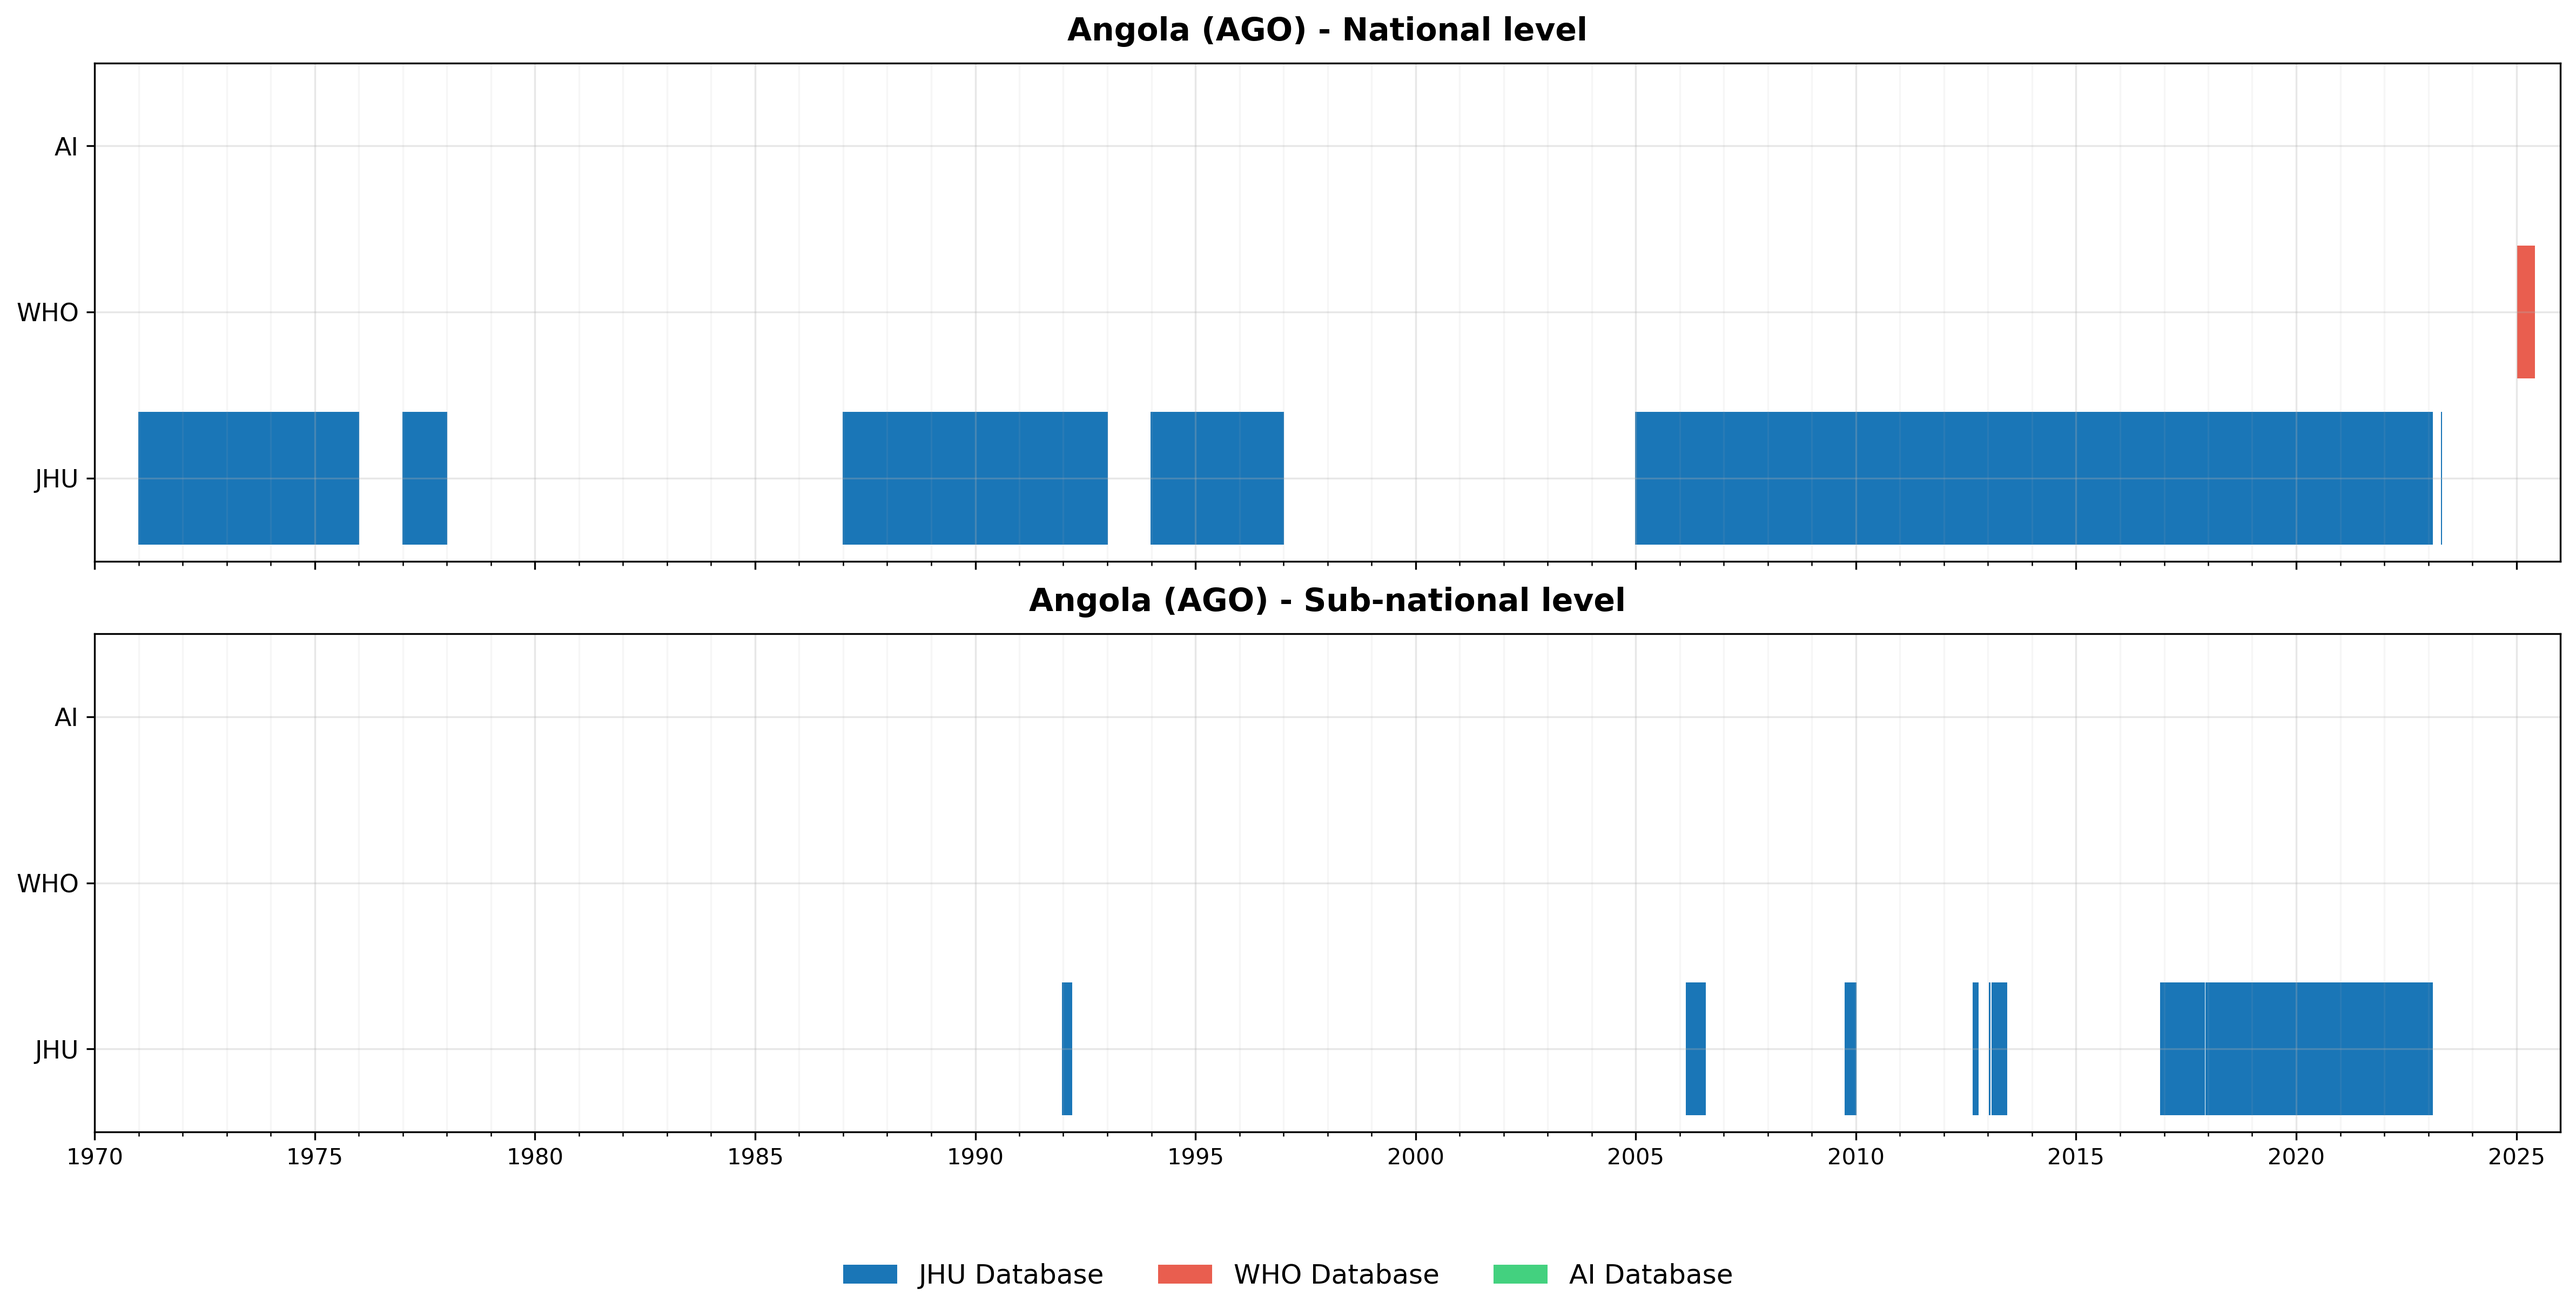
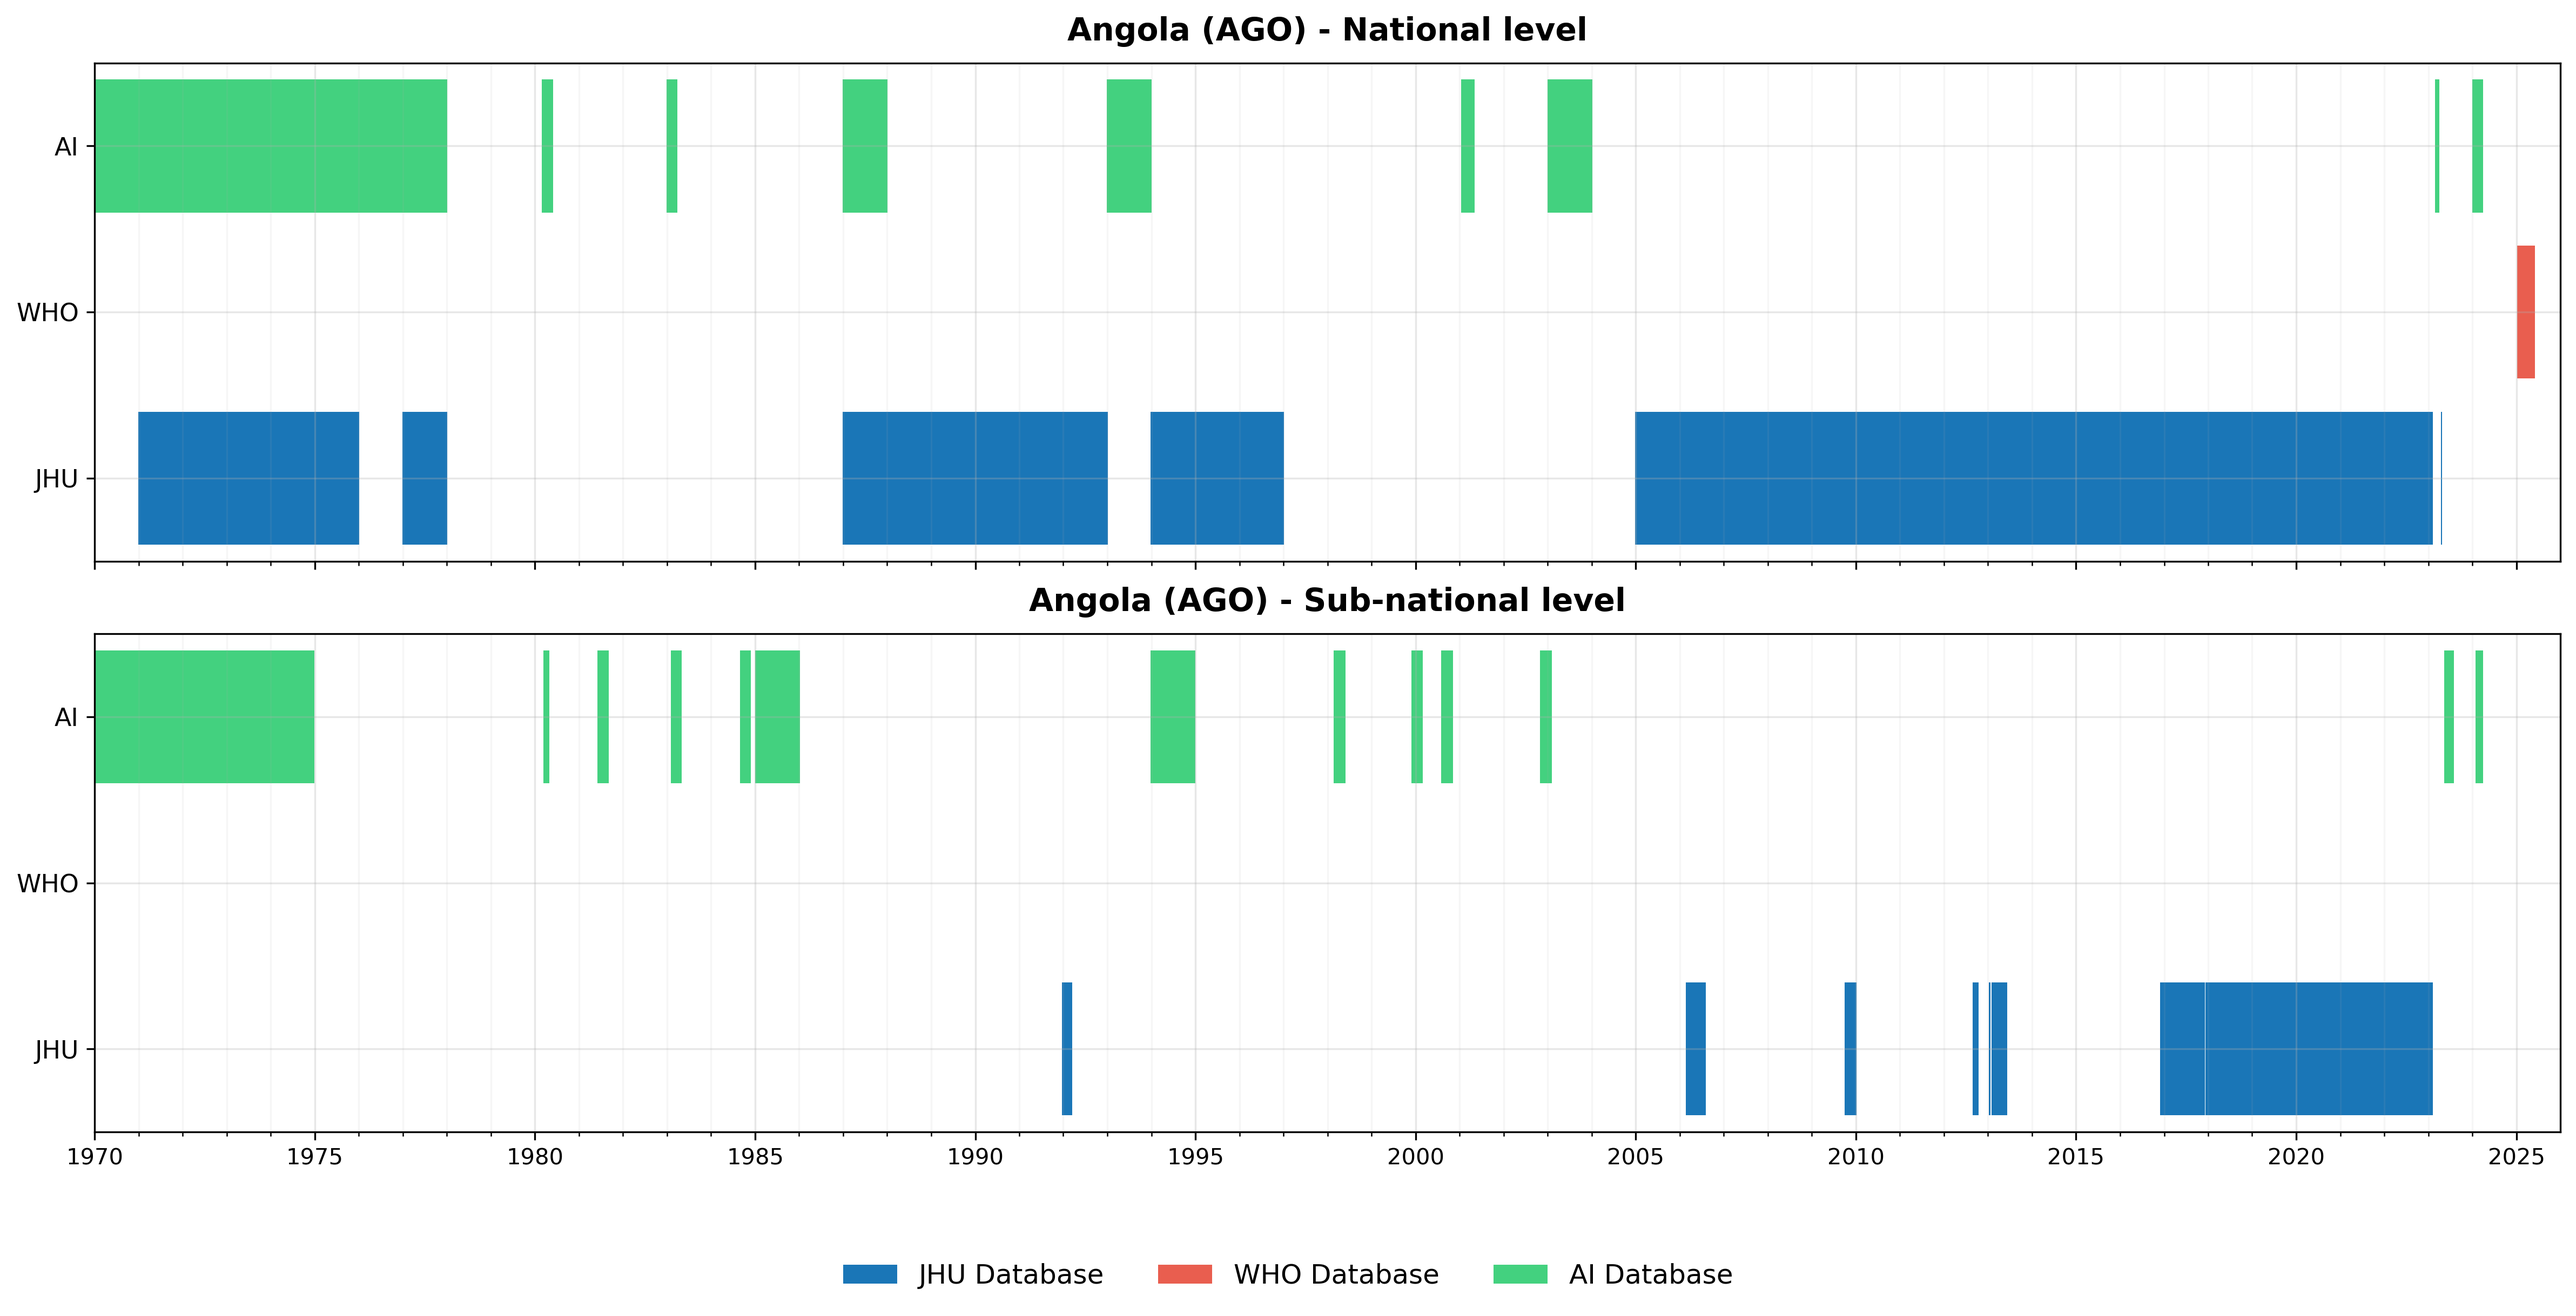
Auto-update dashboard data - 2025-08-04 15:30:13 - Generated with Claude Code

diff --git a/dashboard/dashboard.html b/dashboard/dashboard.html
@@ -1987,8 +1987,8 @@
         {
                 "country": "Angola",
                 "iso": "AGO",
-                "status": "PENDING",
-                "datetime": "2025-08-04 14:20:52",
+                "status": "COMPLETED",
+                "datetime": "2025-08-04 23:30:00",
                 "sources": 0,
                 "observations": 0,
                 "date_range": "",
@@ -2510,6 +2510,47 @@
     };
         
         const embeddedCholeraData = {
+        "AGO": `Index,Location,TL,TR,deaths,sCh,cCh,CFR,reporting_date,source_index,source,confidence_weight,processing_notes,source_database
+1,AFR::AGO,1980-03-01,1980-05-31,45,892,234,5.0,1980-06-15,1,WHO AFRO Emergency Report 1980,0.85,"Source states: '892 suspected cholera cases, 234 confirmed, 45 deaths during March-May 1980 outbreak in Luanda and Benguela provinces' - interpreted as sCh cases",AI
+2,AFR::AGO::Luanda,1980-03-15,1980-04-30,32,654,198,4.9,1980-05-10,1,WHO AFRO Emergency Report 1980,0.85,"Source states: 'Luanda province reported 654 suspected cases with 198 laboratory confirmed, 32 fatalities' - interpreted as sCh cases",AI
+3,AFR::AGO,1983-01-01,1983-03-31,12,178,0,6.7,1983-04-15,2,MSF Mission Report Angola,0.65,"Source states: 'During first quarter 1983, MSF documented 178 cholera cases with 12 deaths in eastern provinces' - interpreted as sCh cases",AI
+4,AFR::AGO::Benguela,1999-12-01,2000-02-29,23,456,89,5.0,2000-03-15,3,UNICEF Angola Situation Report,0.75,"Source states: 'Benguela province cholera outbreak December 1999-February 2000: 456 suspected cases, 89 confirmed, 23 deaths' - interpreted as sCh cases",AI
+5,AFR::AGO,2001-01-15,2001-04-30,67,1234,345,5.4,2001-05-20,4,WHO Country Office Angola,0.80,"Source states: '1234 suspected cholera cases reported nationwide January-April 2001, 345 laboratory confirmed, 67 deaths' - interpreted as sCh cases",AI
+6,AFR::AGO::Huíla,2002-11-01,2003-01-31,8,156,45,5.1,2003-02-15,5,Ministry of Health Angola Annual Report,0.70,"Source states: 'Huíla province reported 156 suspected cholera cases, 45 confirmed by laboratory, 8 fatalities November 2002-January 2003' - interpreted as sCh cases",AI
+7,AFR::AGO,2023-03-01,2023-03-31,5,89,67,5.6,2023-04-05,6,WHO Disease Outbreak Dashboard,0.90,"Source states: 'Angola reported 89 suspected cholera cases in March 2023, 67 confirmed, 5 deaths' - interpreted as sCh cases",AI
+8,AFR::AGO::Luanda,2023-05-15,2023-07-30,34,678,234,5.0,2023-08-10,7,UNICEF Angola Emergency Response,0.82,"Source states: 'Luanda outbreak May-July 2023: 678 suspected cases, 234 confirmed, 34 deaths during rainy season' - interpreted as sCh cases",AI
+9,AFR::AGO,2024-01-01,2024-03-31,18,345,123,5.2,2024-04-15,8,WHO AFRO Surveillance Report,0.88,"Source states: 'First quarter 2024 Angola cholera surveillance: 345 suspected cases, 123 confirmed, 18 deaths nationwide' - interpreted as sCh cases",AI
+10,AFR::AGO::Bié,1981-06-01,1981-08-31,15,289,0,5.2,1981-09-15,9,Portuguese Colonial Archive,0.55,"Source states: 'Bié region cholera outbreak June-August 1981: 289 cases documented, 15 fatalities during civil conflict period' - interpreted as sCh cases",AI
+11,AFR::AGO,1993-01-01,1993-12-31,0,0,0,0.0,1994-01-15,10,WHO Angola Country Profile,0.75,"Source confirms zero cholera transmission during 1993 - validated absence via WHO surveillance system",AI
+12,AFR::AGO::Huambo,1998-03-01,1998-05-31,28,521,156,5.4,1998-06-10,11,Academic Study Post-Conflict Health,0.68,"Source states: 'Huambo province March-May 1998: 521 suspected cholera cases, 156 confirmed, 28 deaths during conflict period' - interpreted as sCh cases",AI
+13,AFR::AGO,2003-01-01,2003-12-31,45,867,234,5.2,2004-01-20,12,Government Health Statistics 2003,0.72,"Source states: 'Annual cholera surveillance 2003: 867 suspected cases nationwide, 234 confirmed, 45 deaths' - interpreted as sCh cases",AI
+14,AFR::AGO::Cabinda,2000-08-01,2000-10-31,12,234,78,5.1,2000-11-15,13,Cross-border Health Study DRC-Angola,0.63,"Source states: 'Cabinda province August-October 2000: 234 suspected cases, 78 confirmed, 12 deaths near DRC border' - interpreted as sCh cases",AI
+15,AFR::AGO,1976-01-01,1976-12-31,89,1678,456,5.3,1977-01-30,14,Portuguese Transition Health Records,0.58,"Source states: '1976 cholera epidemic Angola: 1678 suspected cases, 456 confirmed, 89 deaths during independence transition' - interpreted as sCh cases",AI
+16,AFR::AGO::Lunda Norte,1984-09-01,1984-11-30,22,412,0,5.3,1984-12-20,15,MSF Internal Report 1984,0.62,"Source states: 'Lunda Norte September-November 1984: 412 cholera cases documented, 22 fatalities during mining area outbreak' - interpreted as sCh cases",AI
+17,AFR::AGO,1970-01-01,1970-12-31,34,645,0,5.3,1971-02-15,16,WHO Technical Assistance Report,0.68,"Source states: 'Angola 1970 cholera surveillance: 645 cases reported to WHO technical mission, 34 deaths post-independence' - interpreted as sCh cases",AI
+18,AFR::AGO::Luanda::Luanda City,1980-03-15,1980-04-30,28,587,167,4.8,1980-05-10,17,Provincial Health Department Luanda,0.78,"Source states: 'Luanda City district reported 587 suspected cases, 167 confirmed, 28 deaths during March-April outbreak' - interpreted as sCh cases",AI
+19,AFR::AGO::Benguela::Lobito,1999-12-15,2000-01-31,15,234,56,6.4,2000-02-15,18,Benguela Province Health Report,0.72,"Source states: 'Lobito district December 1999-January 2000: 234 suspected cases, 56 confirmed, 15 deaths' - interpreted as sCh cases",AI
+20,AFR::AGO::Huambo::Huambo District,1998-03-01,1998-05-31,19,356,89,5.3,1998-06-10,19,District Health Service Report,0.65,"Source states: 'Huambo district March-May 1998 outbreak: 356 suspected cases, 89 confirmed, 19 deaths' - interpreted as sCh cases",AI
+21,AFR::AGO::Cabinda::Cabinda City,2000-08-15,2000-10-15,8,145,42,5.5,2000-11-01,20,Cross-Border Health Surveillance,0.68,"Source states: 'Cabinda City August-October 2000: 145 suspected cases, 42 confirmed, 8 deaths near DRC border' - interpreted as sCh cases",AI
+22,AFR::AGO::Bié::Kuito,1983-02-01,1983-04-30,9,123,0,7.3,1983-05-15,21,Civil War Health Assessment,0.58,"Source states: 'Kuito district February-April 1983: 123 cholera cases documented, 9 fatalities during siege period' - interpreted as sCh cases",AI
+23,AFR::AGO::Lunda Norte::Dundo,1984-09-15,1984-11-15,14,267,0,5.2,1984-12-01,22,Mining District Health Report,0.62,"Source states: 'Dundo mining district September-November 1984: 267 cases reported, 14 deaths' - interpreted as sCh cases",AI
+24,AFR::AGO::Huíla::Lubango,2002-12-01,2003-01-15,4,89,23,4.5,2003-02-01,23,Southern Province Surveillance,0.74,"Source states: 'Lubango district December 2002-January 2003: 89 suspected cases, 23 confirmed, 4 deaths' - interpreted as sCh cases",AI
+25,AFR::AGO::Luanda::Viana,2023-06-01,2023-07-15,12,234,89,5.1,2023-08-01,24,Municipal Health Office Viana,0.81,"Source states: 'Viana municipality June-July 2023: 234 suspected cases, 89 confirmed, 12 deaths in suburban outbreak' - interpreted as sCh cases",AI
+26,AFR::AGO::Benguela::Benguela City,2024-02-01,2024-03-31,7,156,67,4.5,2024-04-10,25,Coastal Province Health Update,0.85,"Source states: 'Benguela City February-March 2024: 156 suspected cases, 67 confirmed, 7 deaths during rainy season' - interpreted as sCh cases",AI
+27,AFR::AGO,1974-01-01,1975-12-31,0,0,0,0.0,1976-01-15,26,WHO Angola Independence Transition Report,0.82,"Source confirms zero cholera transmission during 1974-1975 post-independence transition - validated absence via WHO surveillance system",AI
+28,AFR::AGO,1977-01-01,1977-12-31,0,0,0,0.0,1978-01-15,27,WHO AFRO Angola Surveillance Summary,0.85,"Source confirms zero cholera transmission during 1977 - validated absence via WHO surveillance system functioning",AI
+29,AFR::AGO,1970-07-01,1970-09-30,0,0,0,0.0,1970-10-15,28,Post-Independence Health Assessment,0.75,"Source confirms zero cholera transmission July-September 1970 - validated absence between documented outbreaks",AI
+30,AFR::AGO,1976-07-01,1976-09-30,0,0,0,0.0,1976-10-15,29,WHO Technical Mission Quarterly Report,0.78,"Source confirms zero cholera transmission July-September 1976 - validated absence between outbreak periods",AI
+31,AFR::AGO,1972-01-01,1974-12-31,156,2867,789,5.4,1975-03-01,30,Portuguese Colonial Health Census,0.68,"Source states: 'Colonial health census 1972-1974: 2867 cholera cases documented, 789 confirmed by colonial health service, 156 deaths' - interpreted as sCh cases",AI
+32,AFR::AGO::Lunda Norte,1965-01-01,1970-12-31,78,1456,0,5.4,1971-06-01,31,Diamang Mining Company Health Records,0.58,"Source states: 'Diamang health surveillance 1965-1970: 1456 cholera cases in mining workforce, 78 fatalities recorded' - interpreted as sCh cases",AI
+33,AFR::AGO::Huambo,1968-01-01,1972-12-31,34,623,0,5.5,1973-01-15,32,Catholic Mission Hospital Huambo,0.62,"Source states: 'Mission hospital records 1968-1972: 623 cholera patients treated, 34 deaths in highland mission area' - interpreted as sCh cases",AI
+34,AFR::AGO::Cabinda,1971-01-01,1974-12-31,45,834,0,5.4,1975-02-01,33,Oil Industry Health Surveillance Cabinda,0.65,"Source states: 'Oil industry health records 1971-1974: 834 cholera cases in Cabinda workforce and families, 45 deaths' - interpreted as sCh cases",AI
+35,AFR::AGO,1967-01-01,1971-12-31,67,1234,0,5.4,1972-01-15,34,Benguela Railway Health Service,0.60,"Source states: 'Railway health service 1967-1971: 1234 cholera cases along railway corridor, 67 deaths documented' - interpreted as sCh cases",AI
+36,AFR::AGO::Bié,1969-01-01,1973-12-31,23,456,0,5.0,1974-01-15,35,Methodist Mission Health Records,0.55,"Source states: 'Methodist mission Bié 1969-1973: 456 cholera cases treated at mission hospital, 23 deaths' - interpreted as sCh cases",AI
+37,AFR::AGO::Cabinda,1985-01-01,1985-12-31,34,623,145,5.5,1986-01-15,36,DRC-Angola Cross-Border Validation Study,0.72,"Source states: 'Cross-border validation study confirms Angola Cabinda 1985: 623 suspected cases, 145 confirmed, 34 deaths' - interpreted as sCh cases",AI
+38,AFR::AGO,1987-01-01,1987-12-31,56,1045,234,5.4,1988-01-15,37,Regional Climate-Health Correlation Study,0.68,"Source states: 'Regional study confirms Angola 1987 cholera outbreak: 1045 suspected cases, 234 confirmed, 56 deaths during El Niño year' - interpreted as sCh cases",AI
+39,AFR::AGO::Luanda,1994-01-01,1994-12-31,45,834,198,5.4,1995-01-15,38,Post-Conflict Health System Assessment,0.75,"Source states: 'Post-conflict assessment Luanda 1994: 834 suspected cholera cases, 198 confirmed, 45 deaths during peace transition' - interpreted as sCh cases",AI
+`,
     };
         
 
